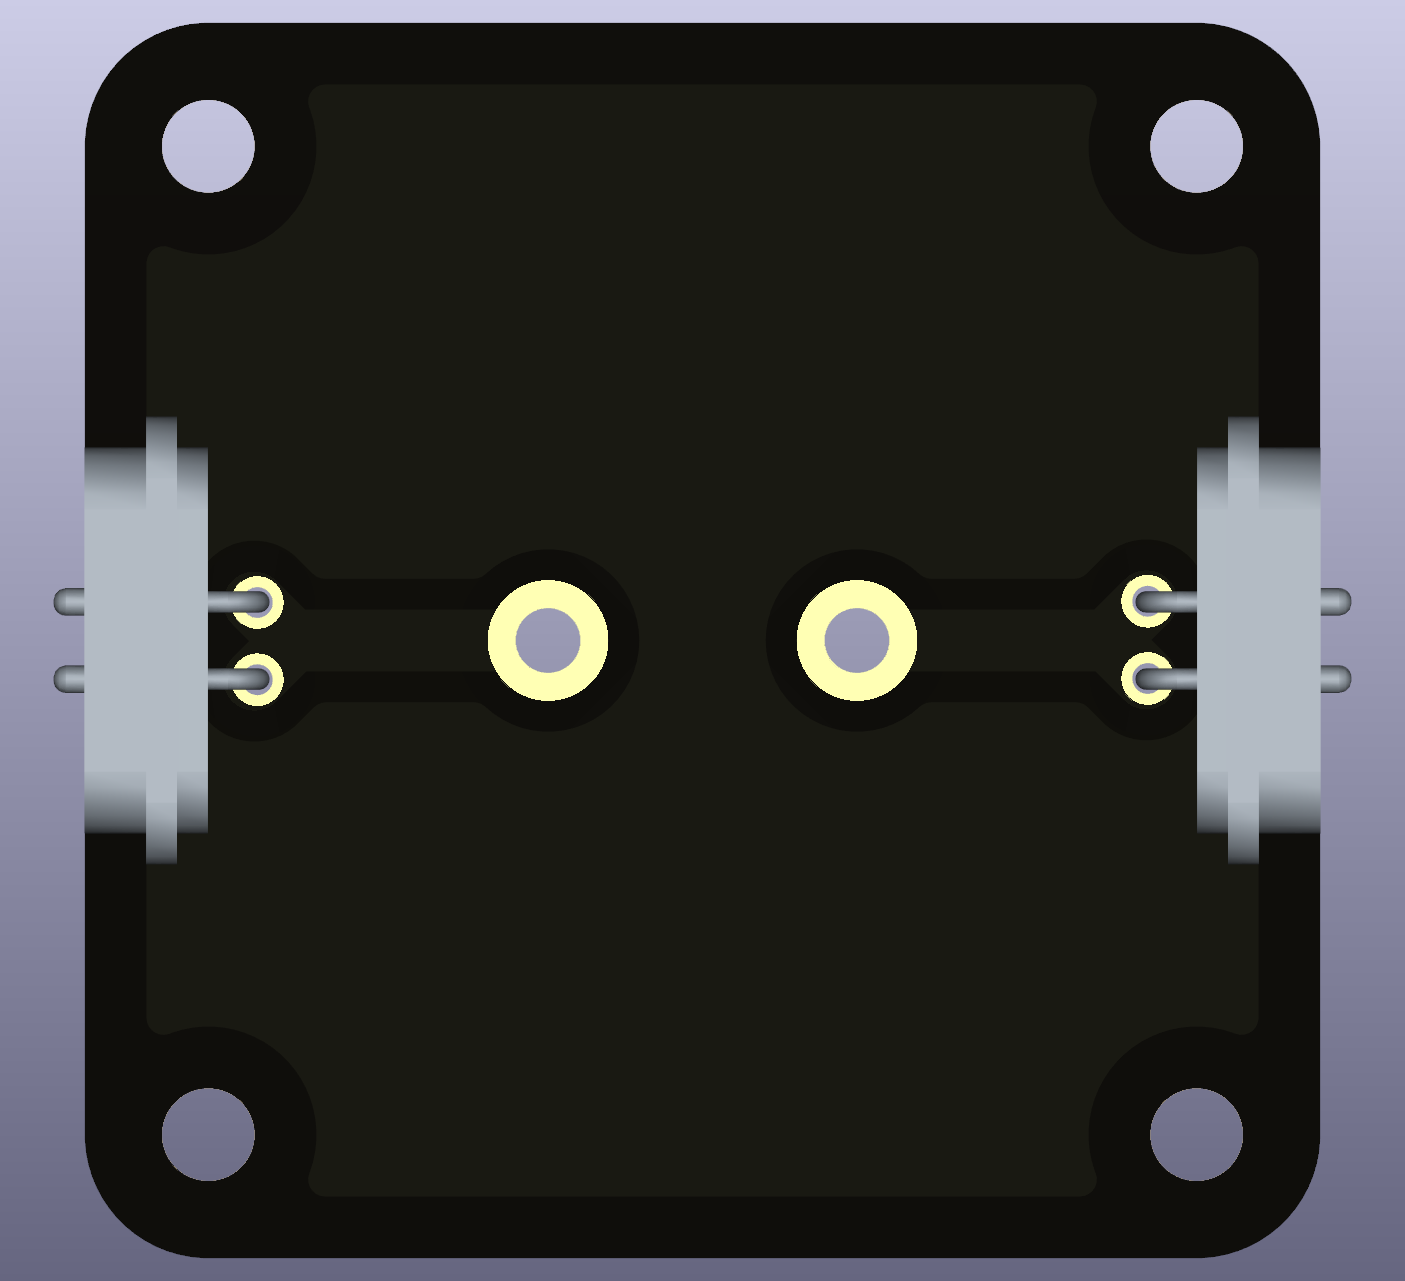
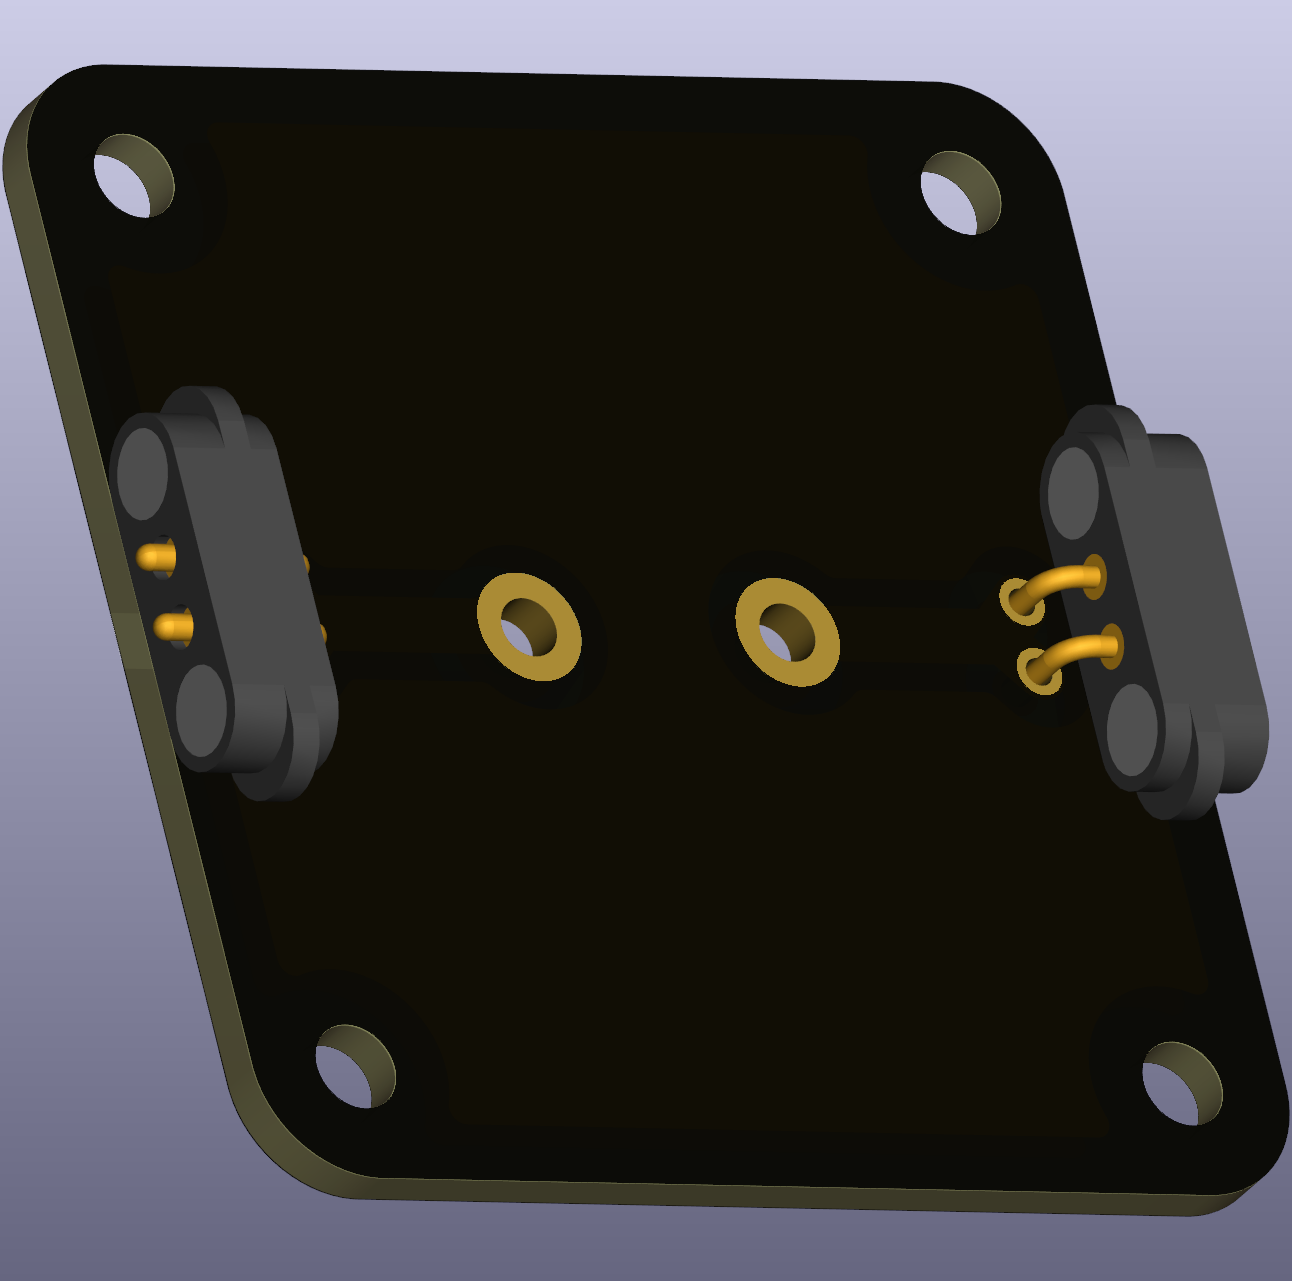
Add E10-holder image and update documentation
Added E10-holder.png and included it in the README. Updated related images and ZIP archive for the component_lamp-E10_THT module.

diff --git a/puzzle-pieces/component_lamp-E10_THT/README.MD b/puzzle-pieces/component_lamp-E10_THT/README.MD
@@ -2,7 +2,7 @@
 A **lamp** is the intro component in education as it makes "invisible" electricity visibly via light and heat emmission. It **limits the flow of electric current** and thereby producing heat, like a resistor.   
 Resistors follow **Ohm's Law (V = I × R)**. Lamps are slightly special, **their resistance increases** with temperature, $R(T)$, thereby feathering the limit of heat dissipation and current flow.
 
-<img src="component_lamp-E10_THT_TOP.png" alt="Circuit Diagram" width="400"> <img src="component_lamp-E10_THT_BOTTOM.png" alt="Circuit Diagram" width="400">
+<img src="component_lamp-E10_THT_TOP.png" alt="Circuit Diagram" width="400"> <img src="component_lamp-E10_THT_BOTTOM.png" alt="Circuit Diagram" width="400"> <img src="E10-holder.png" alt="Circuit Diagram" height="400">
 
 # Compatible lamps
 
